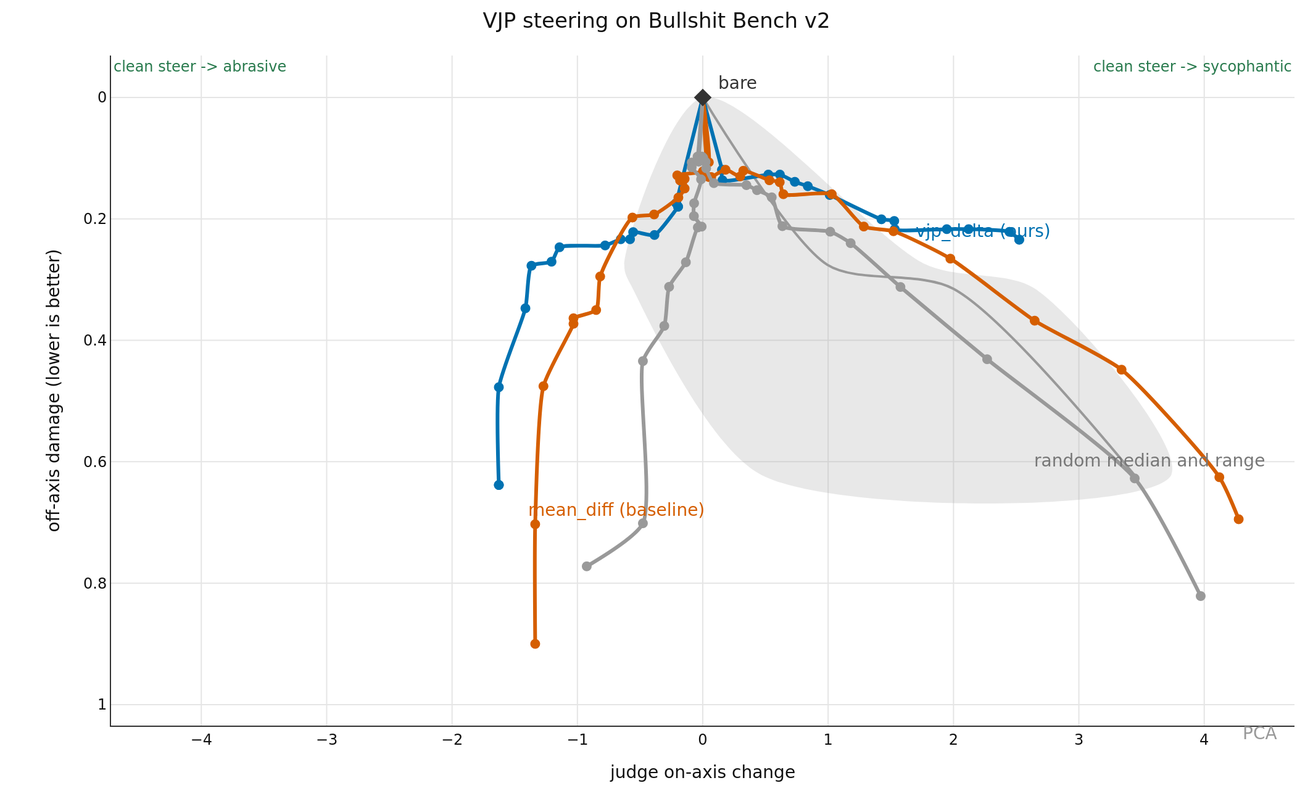
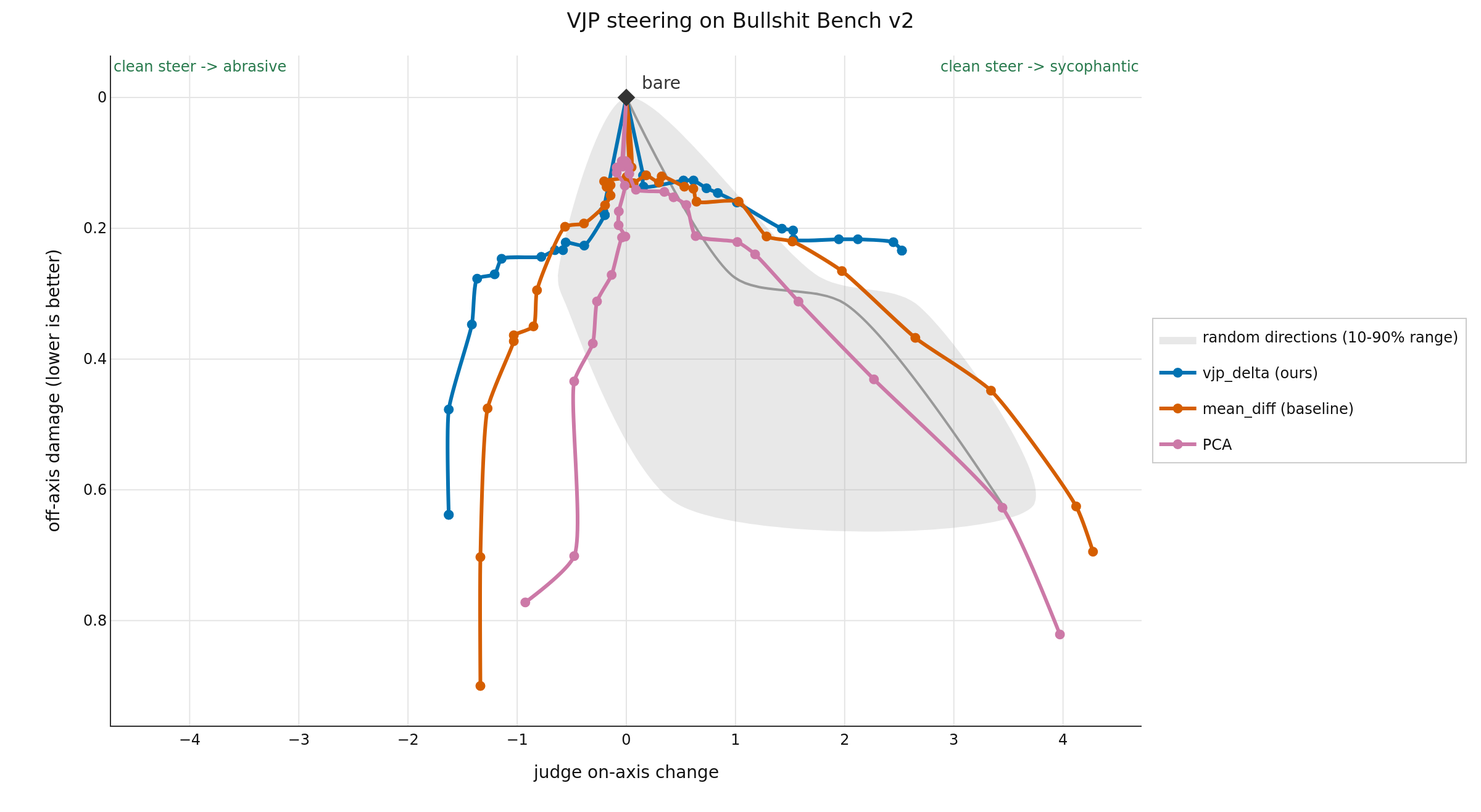
results: move method labels outside the plot

diff --git a/results.html b/results.html
@@ -1,2 +1,2 @@
-<!doctype html><meta charset='utf-8'><title>vjp-steering results</title><style>body{font:16px system-ui;max-width:900px;margin:2rem auto}table{border-collapse:collapse}th,td{padding:.35rem .7rem;border-bottom:1px solid #ccc}th{text-align:left}img{max-width:100%}</style><h1>Results</h1><p>All rows use the same all-100 evaluation cohort. Named-method points are means over three seeds. The figure shows both steering directions. The random cone shows ten vectors until fewer than half have two coherent arms. The table reports rejected arms.</p><div style="height:658px; width:1064px;">                        <script>window.PlotlyConfig = {MathJaxConfig: 'local'};</script>
-        <script charset="utf-8" src="https://cdn.plot.ly/plotly-3.7.0.min.js" integrity="sha256-jvTGqxNp8AGWEcvNLVuKr+8j5dGe9Yw51LQkmDH+IYA=" crossorigin="anonymous"></script>                <div id="0596cb8c-2b52-44ee-a5c3-55716833d3a4" class="plotly-graph-div" style="height:100%; width:100%;"></div>            <script>                window.PLOTLYENV=window.PLOTLYENV || {};                                if (document.getElementById("0596cb8c-2b52-44ee-a5c3-55716833d3a4")) {                    Plotly.newPlot(                        "0596cb8c-2b52-44ee-a5c3-55716833d3a4",                        [{"fill":"toself","fillcolor":"rgba(150,150,150,0.22)","hoverinfo":"skip","line":{"color":"rgba(150,150,150,0)","shape":"spline","smoothing":0.8,"width":0},"showlegend":false,"x":[0.0,-0.62575,-0.558,0.46725,3.73775,2.65025,1.7845,0.0],"y":[0.0,0.2755,0.315,0.621625,0.621625,0.315,0.2755,0.0],"type":"scatter"},{"hoverinfo":"skip","line":{"color":"#999999","shape":"spline","smoothing":0.8,"width":2},"mode":"lines","showlegend":false,"x":[0,0.0,0.9933749999999999,1.999,3.44175],"y":[0,0.0,0.2755,0.315,0.621625],"type":"scatter"},{"hovertemplate":"vjp_delta (ours)\u003cbr\u003e%{text}\u003cbr\u003eeffect=%{x:.3f}\u003cbr\u003edamage=%{y:.3f}\u003cextra\u003e\u003c\u002fextra\u003e","line":{"color":"#0072b2","shape":"spline","smoothing":0.6,"width":3},"marker":{"color":"#0072b2","size":8},"mode":"lines+markers","showlegend":false,"text":["bare","C=0.03125","C=0.0350769","C=0.0393725","C=0.0496063","C=0.0556812","C=0.0625","C=0.0701539","C=0.0787451","C=0.0992126","C=0.111362","C=0.125","C=0.140308","C=0.15749","C=0.198425","C=0.222725","C=0.25"],"x":[0,0.15408333333333332,0.15408333333333332,0.15683333333333332,0.523505,0.61525,0.734195,0.8376666666666667,1.01255,1.42525,1.5273333333333334,1.5313916666666667,1.9463333333333332,2.120833333333333,2.446108333333333,2.52425,2.52425],"y":[0,0.11908333333333333,0.11908333333333333,0.13625,0.12689166666666668,0.12689166666666668,0.138825,0.14605833333333335,0.16058333333333333,0.20058333333333334,0.20333333333333334,0.21683333333333332,0.21683333333333332,0.21683333333333332,0.22125,0.23416666666666666,0.23416666666666666],"type":"scatter"},{"hovertemplate":"vjp_delta (ours)\u003cbr\u003e%{text}\u003cbr\u003eeffect=%{x:.3f}\u003cbr\u003edamage=%{y:.3f}\u003cextra\u003e\u003c\u002fextra\u003e","line":{"color":"#0072b2","shape":"spline","smoothing":0.6,"width":3},"marker":{"color":"#0072b2","size":8},"mode":"lines+markers","showlegend":false,"text":["bare","C=0.03125","C=0.0350769","C=0.0393725","C=0.0441942","C=0.0556812","C=0.0625","C=0.0701539","C=0.0787451","C=0.0883883","C=0.0992126","C=0.111362","C=0.125","C=0.15749","C=0.176777","C=0.198425","C=0.222725"],"x":[0,-0.21149999999999997,-0.21149999999999997,-0.19706166666666666,-0.19706166666666666,-0.38541666666666663,-0.5555,-0.5802475,-0.6541825,-0.7786916666666667,-1.1425916666666667,-1.2064459166666666,-1.3664367499999999,-1.4146759258333332,-1.6265833333333333,-1.6265833333333333,-1.6265833333333333],"y":[0,0.17399916666666668,0.17399916666666668,0.17980000000000002,0.17980000000000002,0.22644166666666665,0.22171083333333333,0.2334416666666667,0.2334416666666667,0.24366666666666667,0.24663333333333334,0.270425,0.27708333333333335,0.3471666666666667,0.4771666666666667,0.63825,0.63825],"type":"scatter"},{"hovertemplate":"mean_diff (baseline)\u003cbr\u003e%{text}\u003cbr\u003eeffect=%{x:.3f}\u003cbr\u003edamage=%{y:.3f}\u003cextra\u003e\u003c\u002fextra\u003e","line":{"color":"#d55e00","shape":"spline","smoothing":0.6,"width":3},"marker":{"color":"#d55e00","size":8},"mode":"lines+markers","showlegend":false,"text":["bare","C=0.03125","C=0.0393725","C=0.0496063","C=0.0625","C=0.0787451","C=0.0992126","C=0.125","C=0.15749","C=0.198425","C=0.25","C=0.31498","C=0.39685","C=0.5","C=0.629961","C=0.793701","C=1"],"x":[0,0.04861,0.06719373583333334,0.18175,0.29885999999999996,0.3235,0.5315,0.61375,0.643,1.0288416666666667,1.2845833333333334,1.5210833333333333,1.9748333333333332,2.6473333333333335,3.3405,4.120416666666666,4.27475],"y":[0,0.131,0.131,0.119,0.12999166666666667,0.120625,0.13633333333333333,0.1395,0.15925,0.15925,0.21252916666666666,0.22025,0.26541666666666663,0.3675833333333333,0.44833333333333336,0.6254166666666666,0.6946666666666667],"type":"scatter"},{"hovertemplate":"mean_diff (baseline)\u003cbr\u003e%{text}\u003cbr\u003eeffect=%{x:.3f}\u003cbr\u003edamage=%{y:.3f}\u003cextra\u003e\u003c\u002fextra\u003e","line":{"color":"#d55e00","shape":"spline","smoothing":0.6,"width":3},"marker":{"color":"#d55e00","size":8},"mode":"lines+markers","showlegend":false,"text":["bare","C=0.03125","C=0.0393725","C=0.0496063","C=0.0625","C=0.0701539","C=0.0883883","C=0.111362","C=0.140308","C=0.176777","C=0.222725","C=0.280616","C=0.353553","C=0.39685","C=0.5","C=0.629961","C=0.793701"],"x":[0,0.04816666666666667,0.001833333333333328,-0.20354166666666668,-0.180925,-0.14454166666666668,-0.14454166666666668,-0.1947475,-0.38816416666666664,-0.5611666666666667,-0.8184166666666667,-0.8505,-1.0310833333333334,-1.0310833333333334,-1.2709166666666667,-1.3367499999999999,-1.3367499999999999],"y":[0,0.10666666666666667,0.12155,0.12821041666666666,0.1366666666666667,0.13399166666666668,0.14983333333333332,0.16475,0.19266666666666665,0.197675,0.29478333333333334,0.3500416666666667,0.36362500000000003,0.3726666666666667,0.4755,0.7029166666666666,0.9],"type":"scatter"},{"hovertemplate":"PCA\u003cbr\u003e%{text}\u003cbr\u003eeffect=%{x:.3f}\u003cbr\u003edamage=%{y:.3f}\u003cextra\u003e\u003c\u002fextra\u003e","line":{"color":"#999999","shape":"spline","smoothing":0.6,"width":3},"marker":{"color":"#999999","size":8},"mode":"lines+markers","showlegend":false,"text":["bare","C=0.03125","C=0.0393725","C=0.0496063","C=0.0625","C=0.0787451","C=0.0992126","C=0.125","C=0.15749","C=0.222725","C=0.280616","C=0.353553","C=0.445449","C=0.561231","C=0.707107","C=0.890899","C=1.12246"],"x":[0,-0.04175,-0.04175,-0.006111666666666677,0.022609999999999984,0.02697166666666666,0.08833333333333332,0.34808333333333336,0.4325833333333334,0.55,0.6351666666666667,1.01675,1.1796083333333334,1.5768333333333333,2.268333333333333,3.4454166666666666,3.97175],"y":[0,0.10181704333333333,0.09730075333333334,0.09730075333333334,0.106125,0.11654166666666667,0.141,0.14433333333333334,0.15258333333333335,0.16439166666666666,0.21191666666666667,0.221,0.23991666666666667,0.3120833333333334,0.4310833333333333,0.6274166666666666,0.8212499999999999],"type":"scatter"},{"hovertemplate":"PCA\u003cbr\u003e%{text}\u003cbr\u003eeffect=%{x:.3f}\u003cbr\u003edamage=%{y:.3f}\u003cextra\u003e\u003c\u002fextra\u003e","line":{"color":"#999999","shape":"spline","smoothing":0.6,"width":3},"marker":{"color":"#999999","size":8},"mode":"lines+markers","showlegend":false,"text":["bare","C=0.03125","C=0.0393725","C=0.0496063","C=0.0625","C=0.0701539","C=0.0883883","C=0.111362","C=0.140308","C=0.176777","C=0.222725","C=0.280616","C=0.353553","C=0.39685","C=0.5","C=0.629961","C=0.793701"],"x":[0,-0.03247500000000001,-0.03247500000000001,0.003671500000000007,-0.08820441666666666,-0.08820441666666666,-0.013758499999999993,-0.06905833333333332,-0.07075,-0.008969166666666672,-0.03958333333333335,-0.13466666666666666,-0.268575,-0.3070833333333333,-0.4775,-0.4775,-0.9255833333333334],"y":[0,0.10563333333333333,0.10164166666666667,0.09928333333333333,0.10703333333333334,0.11488333333333334,0.13475,0.17416666666666666,0.19533333333333333,0.21266666666666667,0.21400833333333333,0.27134166666666665,0.3118416666666667,0.37617500000000004,0.4341666666666667,0.7013333333333334,0.77225],"type":"scatter"},{"hoverinfo":"skip","marker":{"color":"#333333","size":11,"symbol":"diamond"},"mode":"markers","showlegend":false,"x":[0],"y":[0],"type":"scatter"}],                        {"template":{"data":{"histogram2dcontour":[{"type":"histogram2dcontour","colorbar":{"outlinewidth":0,"ticks":""},"colorscale":[[0.0,"#0d0887"],[0.1111111111111111,"#46039f"],[0.2222222222222222,"#7201a8"],[0.3333333333333333,"#9c179e"],[0.4444444444444444,"#bd3786"],[0.5555555555555556,"#d8576b"],[0.6666666666666666,"#ed7953"],[0.7777777777777778,"#fb9f3a"],[0.8888888888888888,"#fdca26"],[1.0,"#f0f921"]]}],"choropleth":[{"type":"choropleth","colorbar":{"outlinewidth":0,"ticks":""}}],"histogram2d":[{"type":"histogram2d","colorbar":{"outlinewidth":0,"ticks":""},"colorscale":[[0.0,"#0d0887"],[0.1111111111111111,"#46039f"],[0.2222222222222222,"#7201a8"],[0.3333333333333333,"#9c179e"],[0.4444444444444444,"#bd3786"],[0.5555555555555556,"#d8576b"],[0.6666666666666666,"#ed7953"],[0.7777777777777778,"#fb9f3a"],[0.8888888888888888,"#fdca26"],[1.0,"#f0f921"]]}],"heatmap":[{"type":"heatmap","colorbar":{"outlinewidth":0,"ticks":""},"colorscale":[[0.0,"#0d0887"],[0.1111111111111111,"#46039f"],[0.2222222222222222,"#7201a8"],[0.3333333333333333,"#9c179e"],[0.4444444444444444,"#bd3786"],[0.5555555555555556,"#d8576b"],[0.6666666666666666,"#ed7953"],[0.7777777777777778,"#fb9f3a"],[0.8888888888888888,"#fdca26"],[1.0,"#f0f921"]]}],"contourcarpet":[{"type":"contourcarpet","colorbar":{"outlinewidth":0,"ticks":""}}],"contour":[{"type":"contour","colorbar":{"outlinewidth":0,"ticks":""},"colorscale":[[0.0,"#0d0887"],[0.1111111111111111,"#46039f"],[0.2222222222222222,"#7201a8"],[0.3333333333333333,"#9c179e"],[0.4444444444444444,"#bd3786"],[0.5555555555555556,"#d8576b"],[0.6666666666666666,"#ed7953"],[0.7777777777777778,"#fb9f3a"],[0.8888888888888888,"#fdca26"],[1.0,"#f0f921"]]}],"surface":[{"type":"surface","colorbar":{"outlinewidth":0,"ticks":""},"colorscale":[[0.0,"#0d0887"],[0.1111111111111111,"#46039f"],[0.2222222222222222,"#7201a8"],[0.3333333333333333,"#9c179e"],[0.4444444444444444,"#bd3786"],[0.5555555555555556,"#d8576b"],[0.6666666666666666,"#ed7953"],[0.7777777777777778,"#fb9f3a"],[0.8888888888888888,"#fdca26"],[1.0,"#f0f921"]]}],"mesh3d":[{"type":"mesh3d","colorbar":{"outlinewidth":0,"ticks":""}}],"scatter":[{"fillpattern":{"fillmode":"overlay","size":10,"solidity":0.2},"type":"scatter"}],"parcoords":[{"type":"parcoords","line":{"colorbar":{"outlinewidth":0,"ticks":""}}}],"scatterpolargl":[{"type":"scatterpolargl","marker":{"colorbar":{"outlinewidth":0,"ticks":""}}}],"bar":[{"error_x":{"color":"#2a3f5f"},"error_y":{"color":"#2a3f5f"},"marker":{"line":{"color":"#E5ECF6","width":0.5},"pattern":{"fillmode":"overlay","size":10,"solidity":0.2}},"type":"bar"}],"scattergeo":[{"type":"scattergeo","marker":{"colorbar":{"outlinewidth":0,"ticks":""}}}],"scatterpolar":[{"type":"scatterpolar","marker":{"colorbar":{"outlinewidth":0,"ticks":""}}}],"histogram":[{"marker":{"pattern":{"fillmode":"overlay","size":10,"solidity":0.2}},"type":"histogram"}],"scattergl":[{"type":"scattergl","marker":{"colorbar":{"outlinewidth":0,"ticks":""}}}],"scatter3d":[{"type":"scatter3d","line":{"colorbar":{"outlinewidth":0,"ticks":""}},"marker":{"colorbar":{"outlinewidth":0,"ticks":""}}}],"scattermap":[{"type":"scattermap","marker":{"colorbar":{"outlinewidth":0,"ticks":""}}}],"scattermapbox":[{"type":"scattermapbox","marker":{"colorbar":{"outlinewidth":0,"ticks":""}}}],"scatterternary":[{"type":"scatterternary","marker":{"colorbar":{"outlinewidth":0,"ticks":""}}}],"scattercarpet":[{"type":"scattercarpet","marker":{"colorbar":{"outlinewidth":0,"ticks":""}}}],"carpet":[{"aaxis":{"endlinecolor":"#2a3f5f","gridcolor":"white","linecolor":"white","minorgridcolor":"white","startlinecolor":"#2a3f5f"},"baxis":{"endlinecolor":"#2a3f5f","gridcolor":"white","linecolor":"white","minorgridcolor":"white","startlinecolor":"#2a3f5f"},"type":"carpet"}],"table":[{"cells":{"fill":{"color":"#EBF0F8"},"line":{"color":"white"}},"header":{"fill":{"color":"#C8D4E3"},"line":{"color":"white"}},"type":"table"}],"barpolar":[{"marker":{"line":{"color":"#E5ECF6","width":0.5},"pattern":{"fillmode":"overlay","size":10,"solidity":0.2}},"type":"barpolar"}],"pie":[{"automargin":true,"type":"pie"}]},"layout":{"autotypenumbers":"strict","colorway":["#636efa","#EF553B","#00cc96","#ab63fa","#FFA15A","#19d3f3","#FF6692","#B6E880","#FF97FF","#FECB52"],"font":{"color":"#2a3f5f"},"hovermode":"closest","hoverlabel":{"align":"left"},"paper_bgcolor":"white","plot_bgcolor":"#E5ECF6","polar":{"bgcolor":"#E5ECF6","angularaxis":{"gridcolor":"white","linecolor":"white","ticks":""},"radialaxis":{"gridcolor":"white","linecolor":"white","ticks":""}},"ternary":{"bgcolor":"#E5ECF6","aaxis":{"gridcolor":"white","linecolor":"white","ticks":""},"baxis":{"gridcolor":"white","linecolor":"white","ticks":""},"caxis":{"gridcolor":"white","linecolor":"white","ticks":""}},"coloraxis":{"colorbar":{"outlinewidth":0,"ticks":""}},"colorscale":{"sequential":[[0.0,"#0d0887"],[0.1111111111111111,"#46039f"],[0.2222222222222222,"#7201a8"],[0.3333333333333333,"#9c179e"],[0.4444444444444444,"#bd3786"],[0.5555555555555556,"#d8576b"],[0.6666666666666666,"#ed7953"],[0.7777777777777778,"#fb9f3a"],[0.8888888888888888,"#fdca26"],[1.0,"#f0f921"]],"sequentialminus":[[0.0,"#0d0887"],[0.1111111111111111,"#46039f"],[0.2222222222222222,"#7201a8"],[0.3333333333333333,"#9c179e"],[0.4444444444444444,"#bd3786"],[0.5555555555555556,"#d8576b"],[0.6666666666666666,"#ed7953"],[0.7777777777777778,"#fb9f3a"],[0.8888888888888888,"#fdca26"],[1.0,"#f0f921"]],"diverging":[[0,"#8e0152"],[0.1,"#c51b7d"],[0.2,"#de77ae"],[0.3,"#f1b6da"],[0.4,"#fde0ef"],[0.5,"#f7f7f7"],[0.6,"#e6f5d0"],[0.7,"#b8e186"],[0.8,"#7fbc41"],[0.9,"#4d9221"],[1,"#276419"]]},"xaxis":{"gridcolor":"white","linecolor":"white","ticks":"","title":{"standoff":15},"zerolinecolor":"white","automargin":true,"zerolinewidth":2},"yaxis":{"gridcolor":"white","linecolor":"white","ticks":"","title":{"standoff":15},"zerolinecolor":"white","automargin":true,"zerolinewidth":2},"scene":{"xaxis":{"backgroundcolor":"#E5ECF6","gridcolor":"white","linecolor":"white","showbackground":true,"ticks":"","zerolinecolor":"white","gridwidth":2},"yaxis":{"backgroundcolor":"#E5ECF6","gridcolor":"white","linecolor":"white","showbackground":true,"ticks":"","zerolinecolor":"white","gridwidth":2},"zaxis":{"backgroundcolor":"#E5ECF6","gridcolor":"white","linecolor":"white","showbackground":true,"ticks":"","zerolinecolor":"white","gridwidth":2}},"shapedefaults":{"line":{"color":"#2a3f5f"}},"annotationdefaults":{"arrowcolor":"#2a3f5f","arrowhead":0,"arrowwidth":1},"geo":{"bgcolor":"white","landcolor":"#E5ECF6","subunitcolor":"white","showland":true,"showlakes":true,"lakecolor":"white"},"title":{"x":0.05},"mapbox":{"style":"light"}}},"annotations":[{"font":{"color":"#0072b2","size":14},"showarrow":false,"text":"vjp_delta (ours)","x":2.98775,"xanchor":"right","xshift":-20,"y":0.24483333333333332,"yshift":12},{"font":{"color":"#d55e00","size":14},"showarrow":false,"text":"mean_diff (baseline)","x":-1.4915,"xanchor":"left","xshift":8,"y":0.7029166666666666,"yshift":12},{"font":{"color":"#999999","size":14},"showarrow":false,"text":"PCA","x":4.089916666666666,"xanchor":"left","xshift":20,"y":1.0305833333333332,"yshift":-8},{"font":{"color":"#333333","size":14},"showarrow":false,"text":"bare","x":0,"xshift":28,"y":0,"yshift":12},{"font":{"color":"#777777","size":14},"showarrow":false,"text":"random median and range","x":3.44175,"xshift":12,"y":0.621625,"yshift":12},{"font":{"color":"#287a4d","size":12},"showarrow":false,"text":"clean steer -\u003e abrasive","x":0,"xanchor":"left","xref":"paper","y":1,"yref":"paper"},{"font":{"color":"#287a4d","size":12},"showarrow":false,"text":"clean steer -\u003e sycophantic","x":1,"xanchor":"right","xref":"paper","y":1,"yref":"paper"}],"title":{"text":"VJP steering on Bullshit Bench v2","x":0.5,"xanchor":"center"},"margin":{"l":90,"r":15,"t":45,"b":70},"font":{"color":"#111"},"xaxis":{"title":{"text":"judge on-axis change"},"range":[-4.7198979,4.7198979],"showline":true,"linecolor":"#333333","gridcolor":"#e5e5e5","zeroline":false},"yaxis":{"title":{"text":"off-axis damage (lower is better)"},"showline":true,"linecolor":"#333333","gridcolor":"#e5e5e5","zeroline":false,"autorange":"reversed"},"width":1064,"height":658,"plot_bgcolor":"white","paper_bgcolor":"white","showlegend":false},                        {"responsive": true}                    )                };            </script>        </div><table><thead><tr><th>method</th><th>steer dir</th><th>seeds</th><th>arms</th><th>rejected</th><th>peak on-axis</th><th>damage at peak</th></tr></thead><tbody><tr><td>vjp_delta</td><td>-C</td><td>3</td><td>18</td><td>10</td><td>-1.849</td><td>0.477</td></tr><tr><td>vjp_delta</td><td>+C</td><td>3</td><td>19</td><td>0</td><td>+2.988</td><td>0.245</td></tr><tr><td>mean_diff</td><td>-C</td><td>3</td><td>29</td><td>15</td><td>-1.492</td><td>0.703</td></tr><tr><td>mean_diff</td><td>+C</td><td>3</td><td>31</td><td>9</td><td>+4.370</td><td>0.695</td></tr><tr><td>pca</td><td>-C</td><td>3</td><td>29</td><td>24</td><td>-1.227</td><td>0.963</td></tr><tr><td>pca</td><td>+C</td><td>3</td><td>32</td><td>15</td><td>+4.090</td><td>1.031</td></tr><tr><td>random</td><td>-C</td><td>10</td><td>30</td><td>4</td><td>+4.075</td><td>0.724</td></tr><tr><td>random</td><td>+C</td><td>10</td><td>30</td><td>1</td><td>+3.851</td><td>0.470</td></tr></tbody></table>
+<!doctype html><meta charset='utf-8'><title>vjp-steering results</title><style>body{font:16px system-ui;max-width:900px;margin:2rem auto}table{border-collapse:collapse}th,td{padding:.35rem .7rem;border-bottom:1px solid #ccc}th{text-align:left}img{max-width:100%}</style><h1>Results</h1><p>All rows use the same all-100 evaluation cohort. Named-method points are means over three seeds. The figure shows both steering directions. The random cone shows ten vectors until fewer than half have two coherent arms. The table reports rejected arms.</p><div style="height:658px; width:1200px;">                        <script>window.PlotlyConfig = {MathJaxConfig: 'local'};</script>
+        <script charset="utf-8" src="https://cdn.plot.ly/plotly-3.7.0.min.js" integrity="sha256-jvTGqxNp8AGWEcvNLVuKr+8j5dGe9Yw51LQkmDH+IYA=" crossorigin="anonymous"></script>                <div id="d59df432-7723-4302-a7ea-b3e62fa98134" class="plotly-graph-div" style="height:100%; width:100%;"></div>            <script>                window.PLOTLYENV=window.PLOTLYENV || {};                                if (document.getElementById("d59df432-7723-4302-a7ea-b3e62fa98134")) {                    Plotly.newPlot(                        "d59df432-7723-4302-a7ea-b3e62fa98134",                        [{"fill":"toself","fillcolor":"rgba(150,150,150,0.22)","hoverinfo":"skip","legendgroup":"random","line":{"color":"rgba(150,150,150,0)","shape":"spline","smoothing":0.8,"width":0},"name":"random directions (10-90% range)","showlegend":true,"x":[0.0,-0.62575,-0.558,0.46725,3.73775,2.65025,1.7845,0.0],"y":[0.0,0.2755,0.315,0.621625,0.621625,0.315,0.2755,0.0],"type":"scatter"},{"hoverinfo":"skip","line":{"color":"#999999","shape":"spline","smoothing":0.8,"width":2},"mode":"lines","showlegend":false,"x":[0,0.0,0.9933749999999999,1.999,3.44175],"y":[0,0.0,0.2755,0.315,0.621625],"type":"scatter"},{"hovertemplate":"vjp_delta (ours)\u003cbr\u003e%{text}\u003cbr\u003eeffect=%{x:.3f}\u003cbr\u003edamage=%{y:.3f}\u003cextra\u003e\u003c\u002fextra\u003e","legendgroup":"vjp_delta","line":{"color":"#0072b2","shape":"spline","smoothing":0.6,"width":3},"marker":{"color":"#0072b2","size":8},"mode":"lines+markers","name":"vjp_delta (ours)","showlegend":true,"text":["bare","C=0.03125","C=0.0350769","C=0.0393725","C=0.0496063","C=0.0556812","C=0.0625","C=0.0701539","C=0.0787451","C=0.0992126","C=0.111362","C=0.125","C=0.140308","C=0.15749","C=0.198425","C=0.222725","C=0.25"],"x":[0,0.15408333333333332,0.15408333333333332,0.15683333333333332,0.523505,0.61525,0.734195,0.8376666666666667,1.01255,1.42525,1.5273333333333334,1.5313916666666667,1.9463333333333332,2.120833333333333,2.446108333333333,2.52425,2.52425],"y":[0,0.11908333333333333,0.11908333333333333,0.13625,0.12689166666666668,0.12689166666666668,0.138825,0.14605833333333335,0.16058333333333333,0.20058333333333334,0.20333333333333334,0.21683333333333332,0.21683333333333332,0.21683333333333332,0.22125,0.23416666666666666,0.23416666666666666],"type":"scatter"},{"hovertemplate":"vjp_delta (ours)\u003cbr\u003e%{text}\u003cbr\u003eeffect=%{x:.3f}\u003cbr\u003edamage=%{y:.3f}\u003cextra\u003e\u003c\u002fextra\u003e","legendgroup":"vjp_delta","line":{"color":"#0072b2","shape":"spline","smoothing":0.6,"width":3},"marker":{"color":"#0072b2","size":8},"mode":"lines+markers","name":"vjp_delta (ours)","showlegend":false,"text":["bare","C=0.03125","C=0.0350769","C=0.0393725","C=0.0441942","C=0.0556812","C=0.0625","C=0.0701539","C=0.0787451","C=0.0883883","C=0.0992126","C=0.111362","C=0.125","C=0.15749","C=0.176777","C=0.198425","C=0.222725"],"x":[0,-0.21149999999999997,-0.21149999999999997,-0.19706166666666666,-0.19706166666666666,-0.38541666666666663,-0.5555,-0.5802475,-0.6541825,-0.7786916666666667,-1.1425916666666667,-1.2064459166666666,-1.3664367499999999,-1.4146759258333332,-1.6265833333333333,-1.6265833333333333,-1.6265833333333333],"y":[0,0.17399916666666668,0.17399916666666668,0.17980000000000002,0.17980000000000002,0.22644166666666665,0.22171083333333333,0.2334416666666667,0.2334416666666667,0.24366666666666667,0.24663333333333334,0.270425,0.27708333333333335,0.3471666666666667,0.4771666666666667,0.63825,0.63825],"type":"scatter"},{"hovertemplate":"mean_diff (baseline)\u003cbr\u003e%{text}\u003cbr\u003eeffect=%{x:.3f}\u003cbr\u003edamage=%{y:.3f}\u003cextra\u003e\u003c\u002fextra\u003e","legendgroup":"mean_diff","line":{"color":"#d55e00","shape":"spline","smoothing":0.6,"width":3},"marker":{"color":"#d55e00","size":8},"mode":"lines+markers","name":"mean_diff (baseline)","showlegend":true,"text":["bare","C=0.03125","C=0.0393725","C=0.0496063","C=0.0625","C=0.0787451","C=0.0992126","C=0.125","C=0.15749","C=0.198425","C=0.25","C=0.31498","C=0.39685","C=0.5","C=0.629961","C=0.793701","C=1"],"x":[0,0.04861,0.06719373583333334,0.18175,0.29885999999999996,0.3235,0.5315,0.61375,0.643,1.0288416666666667,1.2845833333333334,1.5210833333333333,1.9748333333333332,2.6473333333333335,3.3405,4.120416666666666,4.27475],"y":[0,0.131,0.131,0.119,0.12999166666666667,0.120625,0.13633333333333333,0.1395,0.15925,0.15925,0.21252916666666666,0.22025,0.26541666666666663,0.3675833333333333,0.44833333333333336,0.6254166666666666,0.6946666666666667],"type":"scatter"},{"hovertemplate":"mean_diff (baseline)\u003cbr\u003e%{text}\u003cbr\u003eeffect=%{x:.3f}\u003cbr\u003edamage=%{y:.3f}\u003cextra\u003e\u003c\u002fextra\u003e","legendgroup":"mean_diff","line":{"color":"#d55e00","shape":"spline","smoothing":0.6,"width":3},"marker":{"color":"#d55e00","size":8},"mode":"lines+markers","name":"mean_diff (baseline)","showlegend":false,"text":["bare","C=0.03125","C=0.0393725","C=0.0496063","C=0.0625","C=0.0701539","C=0.0883883","C=0.111362","C=0.140308","C=0.176777","C=0.222725","C=0.280616","C=0.353553","C=0.39685","C=0.5","C=0.629961","C=0.793701"],"x":[0,0.04816666666666667,0.001833333333333328,-0.20354166666666668,-0.180925,-0.14454166666666668,-0.14454166666666668,-0.1947475,-0.38816416666666664,-0.5611666666666667,-0.8184166666666667,-0.8505,-1.0310833333333334,-1.0310833333333334,-1.2709166666666667,-1.3367499999999999,-1.3367499999999999],"y":[0,0.10666666666666667,0.12155,0.12821041666666666,0.1366666666666667,0.13399166666666668,0.14983333333333332,0.16475,0.19266666666666665,0.197675,0.29478333333333334,0.3500416666666667,0.36362500000000003,0.3726666666666667,0.4755,0.7029166666666666,0.9],"type":"scatter"},{"hovertemplate":"PCA\u003cbr\u003e%{text}\u003cbr\u003eeffect=%{x:.3f}\u003cbr\u003edamage=%{y:.3f}\u003cextra\u003e\u003c\u002fextra\u003e","legendgroup":"pca","line":{"color":"#cc79a7","shape":"spline","smoothing":0.6,"width":3},"marker":{"color":"#cc79a7","size":8},"mode":"lines+markers","name":"PCA","showlegend":true,"text":["bare","C=0.03125","C=0.0393725","C=0.0496063","C=0.0625","C=0.0787451","C=0.0992126","C=0.125","C=0.15749","C=0.222725","C=0.280616","C=0.353553","C=0.445449","C=0.561231","C=0.707107","C=0.890899","C=1.12246"],"x":[0,-0.04175,-0.04175,-0.006111666666666677,0.022609999999999984,0.02697166666666666,0.08833333333333332,0.34808333333333336,0.4325833333333334,0.55,0.6351666666666667,1.01675,1.1796083333333334,1.5768333333333333,2.268333333333333,3.4454166666666666,3.97175],"y":[0,0.10181704333333333,0.09730075333333334,0.09730075333333334,0.106125,0.11654166666666667,0.141,0.14433333333333334,0.15258333333333335,0.16439166666666666,0.21191666666666667,0.221,0.23991666666666667,0.3120833333333334,0.4310833333333333,0.6274166666666666,0.8212499999999999],"type":"scatter"},{"hovertemplate":"PCA\u003cbr\u003e%{text}\u003cbr\u003eeffect=%{x:.3f}\u003cbr\u003edamage=%{y:.3f}\u003cextra\u003e\u003c\u002fextra\u003e","legendgroup":"pca","line":{"color":"#cc79a7","shape":"spline","smoothing":0.6,"width":3},"marker":{"color":"#cc79a7","size":8},"mode":"lines+markers","name":"PCA","showlegend":false,"text":["bare","C=0.03125","C=0.0393725","C=0.0496063","C=0.0625","C=0.0701539","C=0.0883883","C=0.111362","C=0.140308","C=0.176777","C=0.222725","C=0.280616","C=0.353553","C=0.39685","C=0.5","C=0.629961","C=0.793701"],"x":[0,-0.03247500000000001,-0.03247500000000001,0.003671500000000007,-0.08820441666666666,-0.08820441666666666,-0.013758499999999993,-0.06905833333333332,-0.07075,-0.008969166666666672,-0.03958333333333335,-0.13466666666666666,-0.268575,-0.3070833333333333,-0.4775,-0.4775,-0.9255833333333334],"y":[0,0.10563333333333333,0.10164166666666667,0.09928333333333333,0.10703333333333334,0.11488333333333334,0.13475,0.17416666666666666,0.19533333333333333,0.21266666666666667,0.21400833333333333,0.27134166666666665,0.3118416666666667,0.37617500000000004,0.4341666666666667,0.7013333333333334,0.77225],"type":"scatter"},{"hoverinfo":"skip","marker":{"color":"#333333","size":11,"symbol":"diamond"},"mode":"markers","showlegend":false,"x":[0],"y":[0],"type":"scatter"}],                        {"template":{"data":{"histogram2dcontour":[{"type":"histogram2dcontour","colorbar":{"outlinewidth":0,"ticks":""},"colorscale":[[0.0,"#0d0887"],[0.1111111111111111,"#46039f"],[0.2222222222222222,"#7201a8"],[0.3333333333333333,"#9c179e"],[0.4444444444444444,"#bd3786"],[0.5555555555555556,"#d8576b"],[0.6666666666666666,"#ed7953"],[0.7777777777777778,"#fb9f3a"],[0.8888888888888888,"#fdca26"],[1.0,"#f0f921"]]}],"choropleth":[{"type":"choropleth","colorbar":{"outlinewidth":0,"ticks":""}}],"histogram2d":[{"type":"histogram2d","colorbar":{"outlinewidth":0,"ticks":""},"colorscale":[[0.0,"#0d0887"],[0.1111111111111111,"#46039f"],[0.2222222222222222,"#7201a8"],[0.3333333333333333,"#9c179e"],[0.4444444444444444,"#bd3786"],[0.5555555555555556,"#d8576b"],[0.6666666666666666,"#ed7953"],[0.7777777777777778,"#fb9f3a"],[0.8888888888888888,"#fdca26"],[1.0,"#f0f921"]]}],"heatmap":[{"type":"heatmap","colorbar":{"outlinewidth":0,"ticks":""},"colorscale":[[0.0,"#0d0887"],[0.1111111111111111,"#46039f"],[0.2222222222222222,"#7201a8"],[0.3333333333333333,"#9c179e"],[0.4444444444444444,"#bd3786"],[0.5555555555555556,"#d8576b"],[0.6666666666666666,"#ed7953"],[0.7777777777777778,"#fb9f3a"],[0.8888888888888888,"#fdca26"],[1.0,"#f0f921"]]}],"contourcarpet":[{"type":"contourcarpet","colorbar":{"outlinewidth":0,"ticks":""}}],"contour":[{"type":"contour","colorbar":{"outlinewidth":0,"ticks":""},"colorscale":[[0.0,"#0d0887"],[0.1111111111111111,"#46039f"],[0.2222222222222222,"#7201a8"],[0.3333333333333333,"#9c179e"],[0.4444444444444444,"#bd3786"],[0.5555555555555556,"#d8576b"],[0.6666666666666666,"#ed7953"],[0.7777777777777778,"#fb9f3a"],[0.8888888888888888,"#fdca26"],[1.0,"#f0f921"]]}],"surface":[{"type":"surface","colorbar":{"outlinewidth":0,"ticks":""},"colorscale":[[0.0,"#0d0887"],[0.1111111111111111,"#46039f"],[0.2222222222222222,"#7201a8"],[0.3333333333333333,"#9c179e"],[0.4444444444444444,"#bd3786"],[0.5555555555555556,"#d8576b"],[0.6666666666666666,"#ed7953"],[0.7777777777777778,"#fb9f3a"],[0.8888888888888888,"#fdca26"],[1.0,"#f0f921"]]}],"mesh3d":[{"type":"mesh3d","colorbar":{"outlinewidth":0,"ticks":""}}],"scatter":[{"fillpattern":{"fillmode":"overlay","size":10,"solidity":0.2},"type":"scatter"}],"parcoords":[{"type":"parcoords","line":{"colorbar":{"outlinewidth":0,"ticks":""}}}],"scatterpolargl":[{"type":"scatterpolargl","marker":{"colorbar":{"outlinewidth":0,"ticks":""}}}],"bar":[{"error_x":{"color":"#2a3f5f"},"error_y":{"color":"#2a3f5f"},"marker":{"line":{"color":"#E5ECF6","width":0.5},"pattern":{"fillmode":"overlay","size":10,"solidity":0.2}},"type":"bar"}],"scattergeo":[{"type":"scattergeo","marker":{"colorbar":{"outlinewidth":0,"ticks":""}}}],"scatterpolar":[{"type":"scatterpolar","marker":{"colorbar":{"outlinewidth":0,"ticks":""}}}],"histogram":[{"marker":{"pattern":{"fillmode":"overlay","size":10,"solidity":0.2}},"type":"histogram"}],"scattergl":[{"type":"scattergl","marker":{"colorbar":{"outlinewidth":0,"ticks":""}}}],"scatter3d":[{"type":"scatter3d","line":{"colorbar":{"outlinewidth":0,"ticks":""}},"marker":{"colorbar":{"outlinewidth":0,"ticks":""}}}],"scattermap":[{"type":"scattermap","marker":{"colorbar":{"outlinewidth":0,"ticks":""}}}],"scattermapbox":[{"type":"scattermapbox","marker":{"colorbar":{"outlinewidth":0,"ticks":""}}}],"scatterternary":[{"type":"scatterternary","marker":{"colorbar":{"outlinewidth":0,"ticks":""}}}],"scattercarpet":[{"type":"scattercarpet","marker":{"colorbar":{"outlinewidth":0,"ticks":""}}}],"carpet":[{"aaxis":{"endlinecolor":"#2a3f5f","gridcolor":"white","linecolor":"white","minorgridcolor":"white","startlinecolor":"#2a3f5f"},"baxis":{"endlinecolor":"#2a3f5f","gridcolor":"white","linecolor":"white","minorgridcolor":"white","startlinecolor":"#2a3f5f"},"type":"carpet"}],"table":[{"cells":{"fill":{"color":"#EBF0F8"},"line":{"color":"white"}},"header":{"fill":{"color":"#C8D4E3"},"line":{"color":"white"}},"type":"table"}],"barpolar":[{"marker":{"line":{"color":"#E5ECF6","width":0.5},"pattern":{"fillmode":"overlay","size":10,"solidity":0.2}},"type":"barpolar"}],"pie":[{"automargin":true,"type":"pie"}]},"layout":{"autotypenumbers":"strict","colorway":["#636efa","#EF553B","#00cc96","#ab63fa","#FFA15A","#19d3f3","#FF6692","#B6E880","#FF97FF","#FECB52"],"font":{"color":"#2a3f5f"},"hovermode":"closest","hoverlabel":{"align":"left"},"paper_bgcolor":"white","plot_bgcolor":"#E5ECF6","polar":{"bgcolor":"#E5ECF6","angularaxis":{"gridcolor":"white","linecolor":"white","ticks":""},"radialaxis":{"gridcolor":"white","linecolor":"white","ticks":""}},"ternary":{"bgcolor":"#E5ECF6","aaxis":{"gridcolor":"white","linecolor":"white","ticks":""},"baxis":{"gridcolor":"white","linecolor":"white","ticks":""},"caxis":{"gridcolor":"white","linecolor":"white","ticks":""}},"coloraxis":{"colorbar":{"outlinewidth":0,"ticks":""}},"colorscale":{"sequential":[[0.0,"#0d0887"],[0.1111111111111111,"#46039f"],[0.2222222222222222,"#7201a8"],[0.3333333333333333,"#9c179e"],[0.4444444444444444,"#bd3786"],[0.5555555555555556,"#d8576b"],[0.6666666666666666,"#ed7953"],[0.7777777777777778,"#fb9f3a"],[0.8888888888888888,"#fdca26"],[1.0,"#f0f921"]],"sequentialminus":[[0.0,"#0d0887"],[0.1111111111111111,"#46039f"],[0.2222222222222222,"#7201a8"],[0.3333333333333333,"#9c179e"],[0.4444444444444444,"#bd3786"],[0.5555555555555556,"#d8576b"],[0.6666666666666666,"#ed7953"],[0.7777777777777778,"#fb9f3a"],[0.8888888888888888,"#fdca26"],[1.0,"#f0f921"]],"diverging":[[0,"#8e0152"],[0.1,"#c51b7d"],[0.2,"#de77ae"],[0.3,"#f1b6da"],[0.4,"#fde0ef"],[0.5,"#f7f7f7"],[0.6,"#e6f5d0"],[0.7,"#b8e186"],[0.8,"#7fbc41"],[0.9,"#4d9221"],[1,"#276419"]]},"xaxis":{"gridcolor":"white","linecolor":"white","ticks":"","title":{"standoff":15},"zerolinecolor":"white","automargin":true,"zerolinewidth":2},"yaxis":{"gridcolor":"white","linecolor":"white","ticks":"","title":{"standoff":15},"zerolinecolor":"white","automargin":true,"zerolinewidth":2},"scene":{"xaxis":{"backgroundcolor":"#E5ECF6","gridcolor":"white","linecolor":"white","showbackground":true,"ticks":"","zerolinecolor":"white","gridwidth":2},"yaxis":{"backgroundcolor":"#E5ECF6","gridcolor":"white","linecolor":"white","showbackground":true,"ticks":"","zerolinecolor":"white","gridwidth":2},"zaxis":{"backgroundcolor":"#E5ECF6","gridcolor":"white","linecolor":"white","showbackground":true,"ticks":"","zerolinecolor":"white","gridwidth":2}},"shapedefaults":{"line":{"color":"#2a3f5f"}},"annotationdefaults":{"arrowcolor":"#2a3f5f","arrowhead":0,"arrowwidth":1},"geo":{"bgcolor":"white","landcolor":"#E5ECF6","subunitcolor":"white","showland":true,"showlakes":true,"lakecolor":"white"},"title":{"x":0.05},"mapbox":{"style":"light"}}},"annotations":[{"font":{"color":"#333333","size":14},"showarrow":false,"text":"bare","x":0,"xshift":28,"y":0,"yshift":12},{"font":{"color":"#287a4d","size":12},"showarrow":false,"text":"clean steer -\u003e abrasive","x":0,"xanchor":"left","xref":"paper","y":1,"yref":"paper"},{"font":{"color":"#287a4d","size":12},"showarrow":false,"text":"clean steer -\u003e sycophantic","x":1,"xanchor":"right","xref":"paper","y":1,"yref":"paper"}],"title":{"text":"VJP steering on Bullshit Bench v2","x":0.5,"xanchor":"center"},"margin":{"l":90,"r":250,"t":45,"b":70},"font":{"color":"#111"},"legend":{"x":1.01,"xanchor":"left","y":0.5,"yanchor":"middle","bgcolor":"rgba(255,255,255,0.94)","bordercolor":"#cccccc","borderwidth":1},"xaxis":{"title":{"text":"judge on-axis change"},"range":[-4.7198979,4.7198979],"showline":true,"linecolor":"#333333","gridcolor":"#e5e5e5","zeroline":false},"yaxis":{"title":{"text":"off-axis damage (lower is better)"},"showline":true,"linecolor":"#333333","gridcolor":"#e5e5e5","zeroline":false,"autorange":"reversed"},"width":1200,"height":658,"plot_bgcolor":"white","paper_bgcolor":"white"},                        {"responsive": true}                    )                };            </script>        </div><table><thead><tr><th>method</th><th>steer dir</th><th>seeds</th><th>arms</th><th>rejected</th><th>peak on-axis</th><th>damage at peak</th></tr></thead><tbody><tr><td>vjp_delta</td><td>-C</td><td>3</td><td>18</td><td>10</td><td>-1.849</td><td>0.477</td></tr><tr><td>vjp_delta</td><td>+C</td><td>3</td><td>19</td><td>0</td><td>+2.988</td><td>0.245</td></tr><tr><td>mean_diff</td><td>-C</td><td>3</td><td>29</td><td>15</td><td>-1.492</td><td>0.703</td></tr><tr><td>mean_diff</td><td>+C</td><td>3</td><td>31</td><td>9</td><td>+4.370</td><td>0.695</td></tr><tr><td>pca</td><td>-C</td><td>3</td><td>29</td><td>24</td><td>-1.227</td><td>0.963</td></tr><tr><td>pca</td><td>+C</td><td>3</td><td>32</td><td>15</td><td>+4.090</td><td>1.031</td></tr><tr><td>random</td><td>-C</td><td>10</td><td>30</td><td>4</td><td>+4.075</td><td>0.724</td></tr><tr><td>random</td><td>+C</td><td>10</td><td>30</td><td>1</td><td>+3.851</td><td>0.470</td></tr></tbody></table>

diff --git a/src/vjp_steering/results.py b/src/vjp_steering/results.py
@@ -107,7 +107,8 @@ def plot(rows: list[dict]) -> go.Figure:
         y=[point[1] for point in cone] + [point[1] for point in reversed(cone)],
         fill="toself", fillcolor="rgba(150,150,150,0.22)",
         line={"color": "rgba(150,150,150,0)", "width": 0}, line_shape="spline", line_smoothing=0.8,
-        hoverinfo="skip", showlegend=False,
+        hoverinfo="skip", name="random directions (10-90% range)", showlegend=True,
+        legendgroup="random",
     ))
     figure.add_trace(go.Scatter(
         x=[0, *(point[0] for point in cone)], y=[0, *(point[1] for point in cone)], mode="lines",
@@ -115,7 +116,7 @@ def plot(rows: list[dict]) -> go.Figure:
         hoverinfo="skip", showlegend=False,
     ))
 
-    colors = {"vjp_delta": "#0072b2", "mean_diff": "#d55e00", "pca": "#999999"}
+    colors = {"vjp_delta": "#0072b2", "mean_diff": "#d55e00", "pca": "#cc79a7"}
     for method in METHODS[:-1]:
         method_rows = [row for row in means if row["method"] == method]
         if not method_rows:
@@ -147,22 +148,19 @@ def plot(rows: list[dict]) -> go.Figure:
                     mode="lines+markers", line={"color": colors[method], "width": 3}, marker={"color": colors[method], "size": 8},
                     line_shape="spline", line_smoothing=0.6,
                     text=["bare", *(f"C={row['C']:g}" for row in points)],
-                    hovertemplate=f"{LABELS[method]}<br>%{{text}}<br>effect=%{{x:.3f}}<br>damage=%{{y:.3f}}<extra></extra>", showlegend=False,
+                    hovertemplate=f"{LABELS[method]}<br>%{{text}}<br>effect=%{{x:.3f}}<br>damage=%{{y:.3f}}<extra></extra>",
+                    name=LABELS[method], legendgroup=method, showlegend=side == "+C",
                 ))
-        label = min(method_rows, key=lambda row: row["effect"]) if method == "mean_diff" else max(method_rows, key=lambda row: row["effect"])
-        xshift = -20 if method == "vjp_delta" else 20 if method == "pca" else 8
-        yshift = -8 if method == "pca" else 12
-        figure.add_annotation(x=label["effect"], y=label["off_axis_perturbation"], text=LABELS[method], showarrow=False, xanchor="right" if xshift < 0 else "left", xshift=xshift, yshift=yshift, font={"color": colors[method], "size": 14})
 
     figure.add_trace(go.Scatter(x=[0], y=[0], mode="markers", marker={"color": "#333333", "size": 11, "symbol": "diamond"}, hoverinfo="skip", showlegend=False))
     figure.add_annotation(x=0, y=0, text="bare", showarrow=False, xshift=28, yshift=12, font={"color": "#333333", "size": 14})
-    figure.add_annotation(x=cone[-1][0], y=cone[-1][1], text="random median and range", showarrow=False, xshift=12, yshift=12, font={"color": "#777777", "size": 14})
     figure.add_annotation(x=0, y=1, xref="paper", yref="paper", text="clean steer -> abrasive", showarrow=False, xanchor="left", font={"color": "#287a4d", "size": 12})
     figure.add_annotation(x=1, y=1, xref="paper", yref="paper", text="clean steer -> sycophantic", showarrow=False, xanchor="right", font={"color": "#287a4d", "size": 12})
     figure.update_layout(
         title={"text": "VJP steering on Bullshit Bench v2", "x": 0.5, "xanchor": "center"},
-        width=1064, height=658, margin={"l": 90, "r": 15, "t": 45, "b": 70},
-        font={"color": "#111"}, plot_bgcolor="white", paper_bgcolor="white", showlegend=False,
+        width=1200, height=658, margin={"l": 90, "r": 250, "t": 45, "b": 70},
+        font={"color": "#111"}, plot_bgcolor="white", paper_bgcolor="white",
+        legend={"x": 1.01, "xanchor": "left", "y": 0.5, "yanchor": "middle", "bgcolor": "rgba(255,255,255,0.94)", "bordercolor": "#cccccc", "borderwidth": 1},
         xaxis={"title": "judge on-axis change", "range": [-x_limit, x_limit], "showline": True, "linecolor": "#333333", "gridcolor": "#e5e5e5", "zeroline": False},
         yaxis={"title": "off-axis damage (lower is better)", "showline": True, "linecolor": "#333333", "gridcolor": "#e5e5e5", "zeroline": False, "autorange": "reversed"},
     )
